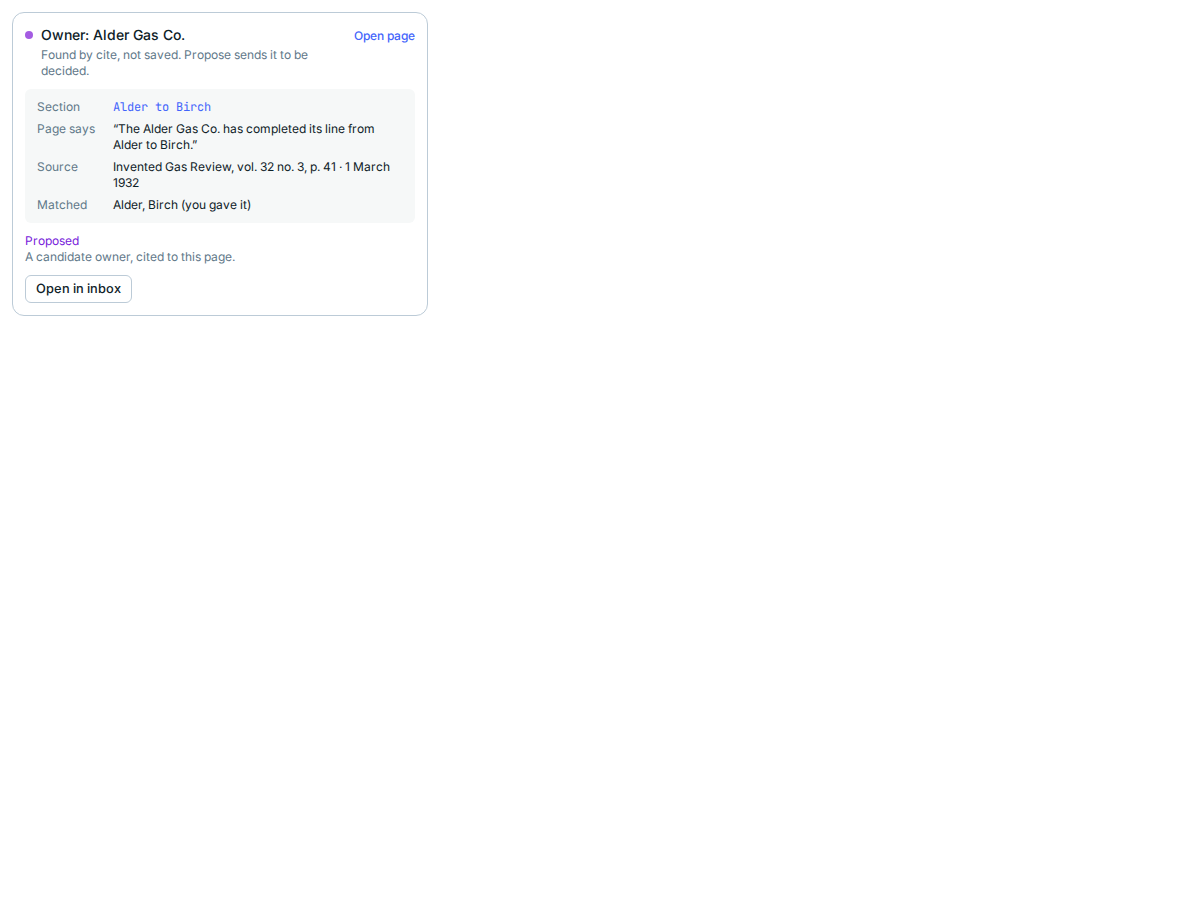
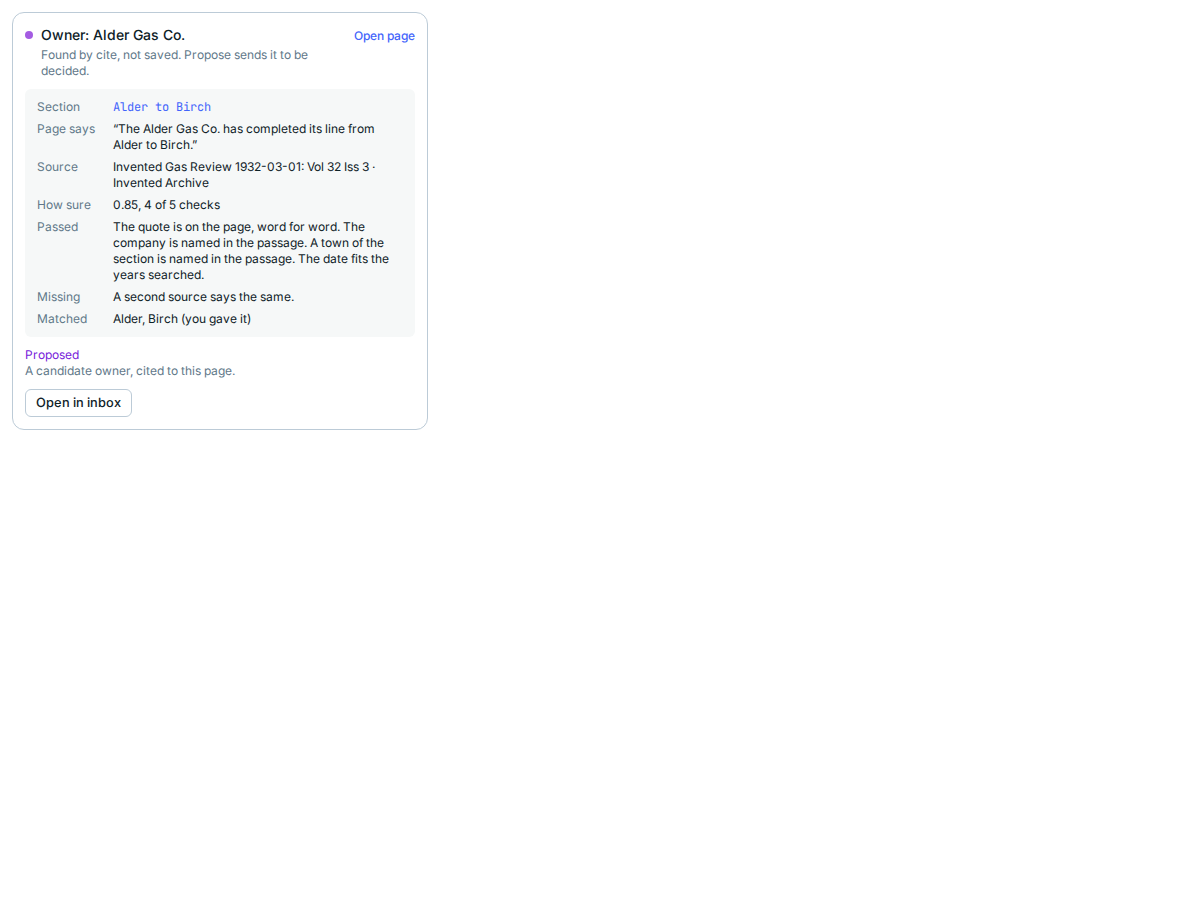
Approve the cards' new screenshots; show a document's date when its title lacks it
The visual job failed on 14 stories: the finding card, the search card and the
decision card's Searching state changed on purpose (no page image; How sure, Passed,
Missing; the Searches row). Screenshots regenerated on Linux and looked at; the new
Lead story gets its first one.

From review: the finding card's Source row dropped the document's date. It now adds
it when the title does not already carry it, as the Agent's sentence does. The
frontend notes no longer describe "Show the page".

Changed region(s): [[0.0308, 0.1867, 0.3392, 0.4667], [0.185, 0.1556, 0.3083, 0.1867]]

diff --git a/frontend/src/screens/studio/panels/agent-finding.test.tsx b/frontend/src/screens/studio/panels/agent-finding.test.tsx
@@ -204,6 +204,21 @@ describe("how sure a finding is", () => {
     expect(it.queryByRole("img")).toBeNull()
     expect(it.queryByRole("button", { name: "Show the page" })).toBeNull()
   })
+
+  it("adds the document's date when its title does not carry it", async () => {
+    const undatedTitle = {
+      ...first,
+      finding: { ...first.finding!, title: "Invented Gas Review" },
+    }
+    await renderInStudio(
+      <AgentStatementView statement={undatedTitle} name={name} open={vi.fn()} />
+    )
+    expect(
+      within(card()).getByText(
+        `Invented Gas Review, ${first.finding!.date} · ${first.finding!.source}`
+      )
+    ).toBeVisible()
+  })
 })
 
 describe("a lead", () => {

diff --git a/frontend/src/screens/studio/panels/agent-finding.tsx b/frontend/src/screens/studio/panels/agent-finding.tsx
@@ -43,9 +43,13 @@ const IN_STORE_WORDS = {
   rejected: "Already rejected",
 } as const
 
-/** Where it was found: the document, then the source it is held by. */
+/**
+ * Where it was found: the document, its date when the title does not already
+ * carry it, then the source it is held by.
+ */
 function reference(f: AgentFinding): string {
-  return `${f.title} · ${f.source}`
+  const dated = f.date && !f.title.includes(f.date) ? `, ${f.date}` : ""
+  return `${f.title}${dated} · ${f.source}`
 }
 
 /** "0.85, 4 of 5 checks": the number is a count of checks, never a chance. */

diff --git a/frontend/AGENTS.md b/frontend/AGENTS.md
@@ -634,10 +634,12 @@ This is a Vite SPA. The Vercel skills are written for Next.js as well. Do not fo
   prefix ("Inferred", with what it means on hover; "Lead, not in store") and is never
   shown as a claim; "Used n
   sources" ends it. What cite found is a finding card (`panels/agent-finding.tsx`, Figma
-  section 29 board B), on the DecisionCard like every card: the value as the title, the page's
-  words, the source, Goes to (an owner goes to the section's pipeline; "This section only"
-  keeps it on the section), why it is in doubt, Open page and Show the page (the crop, in a
-  pop-up), Propose and Dismiss. Propose sends the action `{kind: "propose", finding}` and is
+  section 29 board B, without the page image: cite reads text only), on the DecisionCard
+  like every card: the value as the title, the page's words, the source, How sure (cite's
+  confidence from 0 to 1 and how many of its checks passed, then Passed and Missing), Goes
+  to (an owner goes to the section's pipeline; "This section only" keeps it on the
+  section), why it is in doubt, Open page, Propose and Dismiss. A lead (below cite's
+  cut-off, or its reviewer not sure) is shown with its link and has no Propose. Propose sends the action `{kind: "propose", finding}` and is
   the only way a finding reaches store (as a candidate); Dismiss is recorded in the thread
   and writes nothing. While cite searches, the search card follows it (cite's steps, Stop);
   after a proposal Studio reads store
